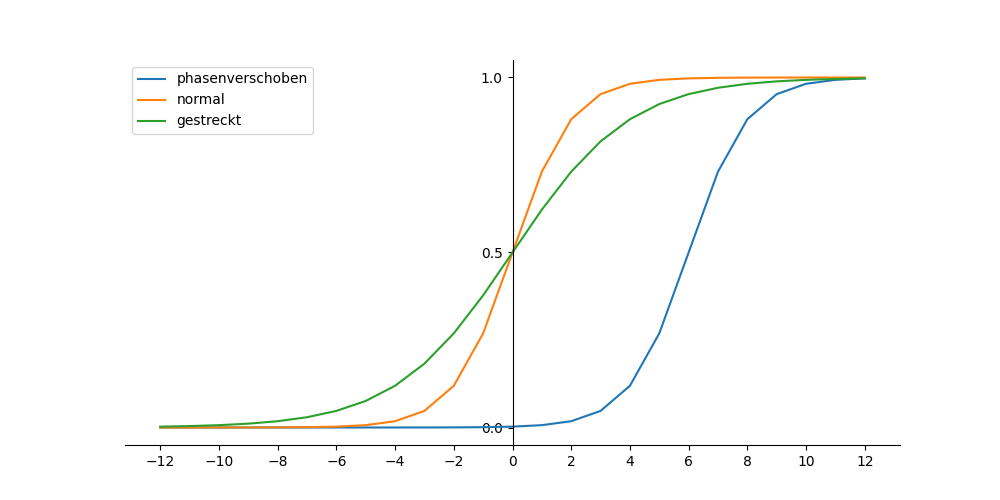
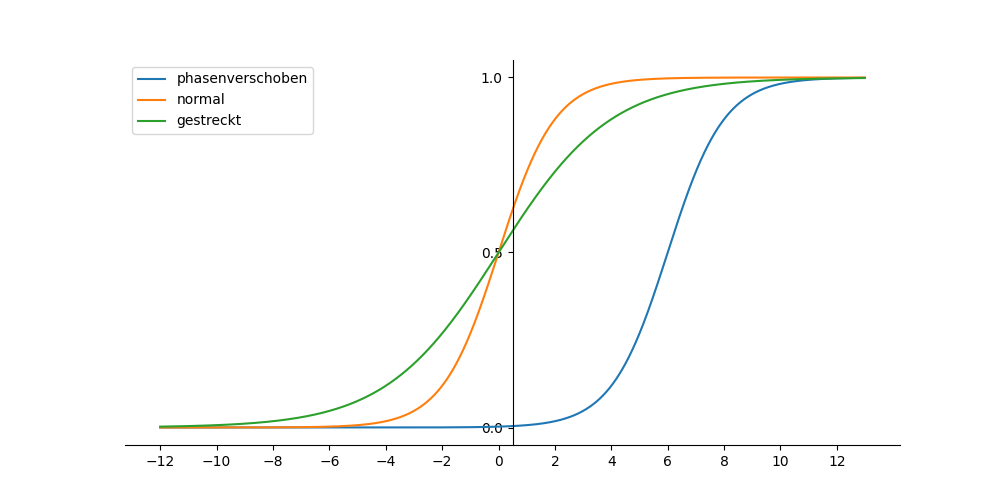
beautified sigmoid example

diff --git a/simulation.py b/simulation.py
@@ -66,9 +66,9 @@ def main():
     sigmoid_func = lambda x: 1 / (1 + exp(-x))
     plt.clf()
     plt.figure(figsize=(10, 5))
-    plt.plot(range(-12, 13), [sigmoid_func(i - 6) for i in range(-12, 13)], label="phasenverschoben")
-    plt.plot(range(-12, 13), [sigmoid_func(i) for i in range(-12, 13)], label="normal")
-    plt.plot(range(-12, 13), [sigmoid_func(.5*i) for i in range(-12, 13)], label="gestreckt")
+    plt.plot([i + j / 100 for i in range(-12, 13) for j in range(100)], [sigmoid_func(i - 6 + j / 100) for i in range(-12, 13) for j in range(100)], label="phasenverschoben")
+    plt.plot([i + j / 100 for i in range(-12, 13) for j in range(100)], [sigmoid_func(i + j / 100) for i in range(-12, 13) for j in range(100)], label="normal")
+    plt.plot([i + j / 100 for i in range(-12, 13) for j in range(100)], [sigmoid_func(.5*(i + j / 100)) for i in range(-12, 13) for j in range(100)], label="gestreckt")
     plt.gca().spines['left'].set_position('center')
     plt.yticks([0, .5, 1])
     plt.xticks(range(-12, 13, 2))
